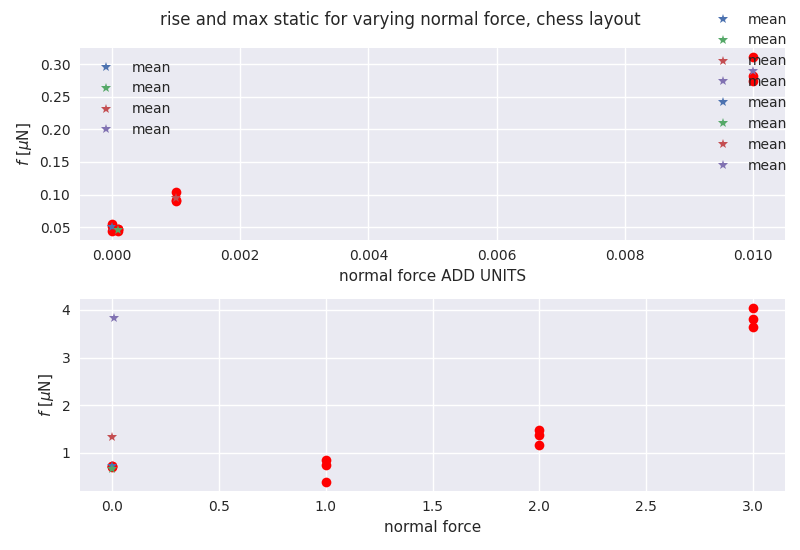
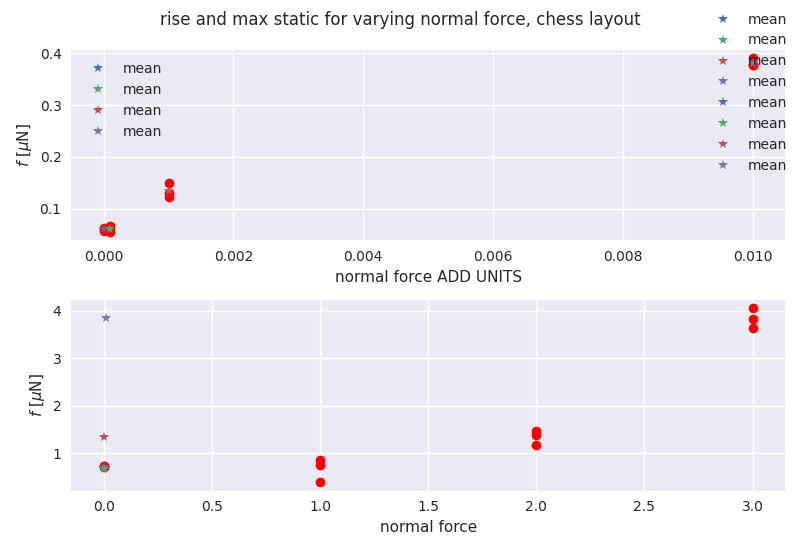
NOTE changed max static interval to 1, 1.15

diff --git a/python/post/get_load_curves.py b/python/post/get_load_curves.py
@@ -37,7 +37,7 @@ def get_load_curves():
 
         if isinstance(seed, tuple):
             for see in seed:
-                logfiles = f'../../simulations/sys_asp{asperities}_uc{uc}/vary_strange/sim_temp{temp}_force{force}_asp{asperities}_or{orientation}_time{time}_seed{see}_errgrid4_4/log.lammps'
+                logfiles = f'../../simulations/sys_asp{asperities}_uc{uc}/vary_normforce/sim_temp{temp}_force{force}_asp{asperities}_or{orientation}_time{time}_seed{see}_errgrid4_4/log.lammps'
                 print(logfiles)
                 if logfiles == []:
                     print(f'Warning, logfile not found; \n seed: {see}')
@@ -45,9 +45,9 @@ def get_load_curves():
                     print('--------------------------------------------------------------------------')
                     print('file: ', logfile)
                     matches = re.findall('\d+', logfile)
-                    outfile_lc = f'../../txt/load_curves/erratic/vary_strange/load_curves_temp{temp}_vel{vel}_force{force}_asp{asperities}_or{orientation}_seed{see}_errgrid4_4.txt'
-                    outfile_ms = f'../../txt/max_static/erratic/vary_strange/max_static_temp{temp}_vel{vel}_force{force}_asp{asperities}_or{orientation}_seed{see}_errgrid4_4.txt'
-                    outfile_rise = f'../../txt/rise/erratic/vary_strange/rise_temp{temp}_vel{vel}_force{force}_asp{asperities}_or{orientation}_seed{see}_errgrid4_4.txt'
+                    outfile_lc = f'../../txt/load_curves/erratic/vary_normforce/load_curves_temp{temp}_vel{vel}_force{force}_asp{asperities}_or{orientation}_seed{see}_errgrid4_4.txt'
+                    outfile_ms = f'../../txt/max_static/erratic/vary_normforce/max_static_temp{temp}_vel{vel}_force{force}_asp{asperities}_or{orientation}_seed{see}_errgrid4_4.txt'
+                    outfile_rise = f'../../txt/rise/erratic/vary_normforce/rise_temp{temp}_vel{vel}_force{force}_asp{asperities}_or{orientation}_seed{see}_errgrid4_4.txt'
 
                     extract_load_curves(logfile, None, 0, window = window, outfile_load_curves = outfile_lc, outfile_max_static = outfile_ms, outfile_rise = outfile_rise)
         else:
@@ -80,7 +80,7 @@ def all_curves(production = True):
         force = 0
         filetemplate = f'../../simulations/sys_asp{asperities}_uc{uc}/production/dataset/sim_temp{temp}_force{force}_asp{asperities}_or{orientation}_time*_initnum*_seed*_errgrid4_4/log.lammps'
     else:
-        filetemplate = f'../../simulations/sys_asp{asperities}_uc{uc}/vary_strange/sim_temp{temp}_force*_asp{asperities}_or{orientation}_time{time}_seed*_errgrid4_4/log.lammps'
+        filetemplate = f'../../simulations/sys_asp{asperities}_uc{uc}/vary_normforce/sim_temp{temp}_force*_asp{asperities}_or{orientation}_time{time}_seed*_errgrid4_4/log.lammps'
 
     files = glob(filetemplate)
     for _file in files:
@@ -89,9 +89,9 @@ def all_curves(production = True):
             outfile_ms = '../../txt/max_static/production/max_static_temp{}_vel{}_force{}_asp{}_or{}_initnum{}_seed{}_errgrid4_4.txt'
             outfile_rise = '../../txt/rise/production/rise_temp{}_vel{}_force{}_asp{}_or{}_initnum{}_seed{}_errgrid4_4.txt'
         else:
-            outfile_lc= '../../txt/load_curves/erratic/vary_strange/load_curves_temp{}_vel{}_force{}_asp{}_or{}_seed{}_errgrid4_4.txt'
-            outfile_ms = '../../txt/max_static/erratic/vary_strange/max_static_temp{}_vel{}_force{}_asp{}_or{}_seed{}_errgrid4_4.txt'
-            outfile_rise = '../../txt/rise/erratic/vary_strange/rise_temp{}_vel{}_force{}_asp{}_or{}_seed{}_errgrid4_4.txt'
+            outfile_lc= '../../txt/load_curves/erratic/vary_normforce/load_curves_temp{}_vel{}_force{}_asp{}_or{}_seed{}_errgrid4_4.txt'
+            outfile_ms = '../../txt/max_static/erratic/vary_normforce/max_static_temp{}_vel{}_force{}_asp{}_or{}_seed{}_errgrid4_4.txt'
+            outfile_rise = '../../txt/rise/erratic/vary_normforce/rise_temp{}_vel{}_force{}_asp{}_or{}_seed{}_errgrid4_4.txt'
 
 
 

diff --git a/python/post/post_utils.py b/python/post/post_utils.py
@@ -339,7 +339,7 @@ def extract_load_curves(logfile, delta=None, init_time=0, window=1,
 
     
     push_start_indx_nnan = (np.abs(time_nnan - 1.0)).argmin()
-    push_stop_indx_nnan = (np.abs(time_nnan-1.03)).argmin()
+    push_stop_indx_nnan = (np.abs(time_nnan-1.15)).argmin()
     
     plt.plot(time, fx)
     plt.plot(time_nnan, sigmoid(time_nnan, *popt))
